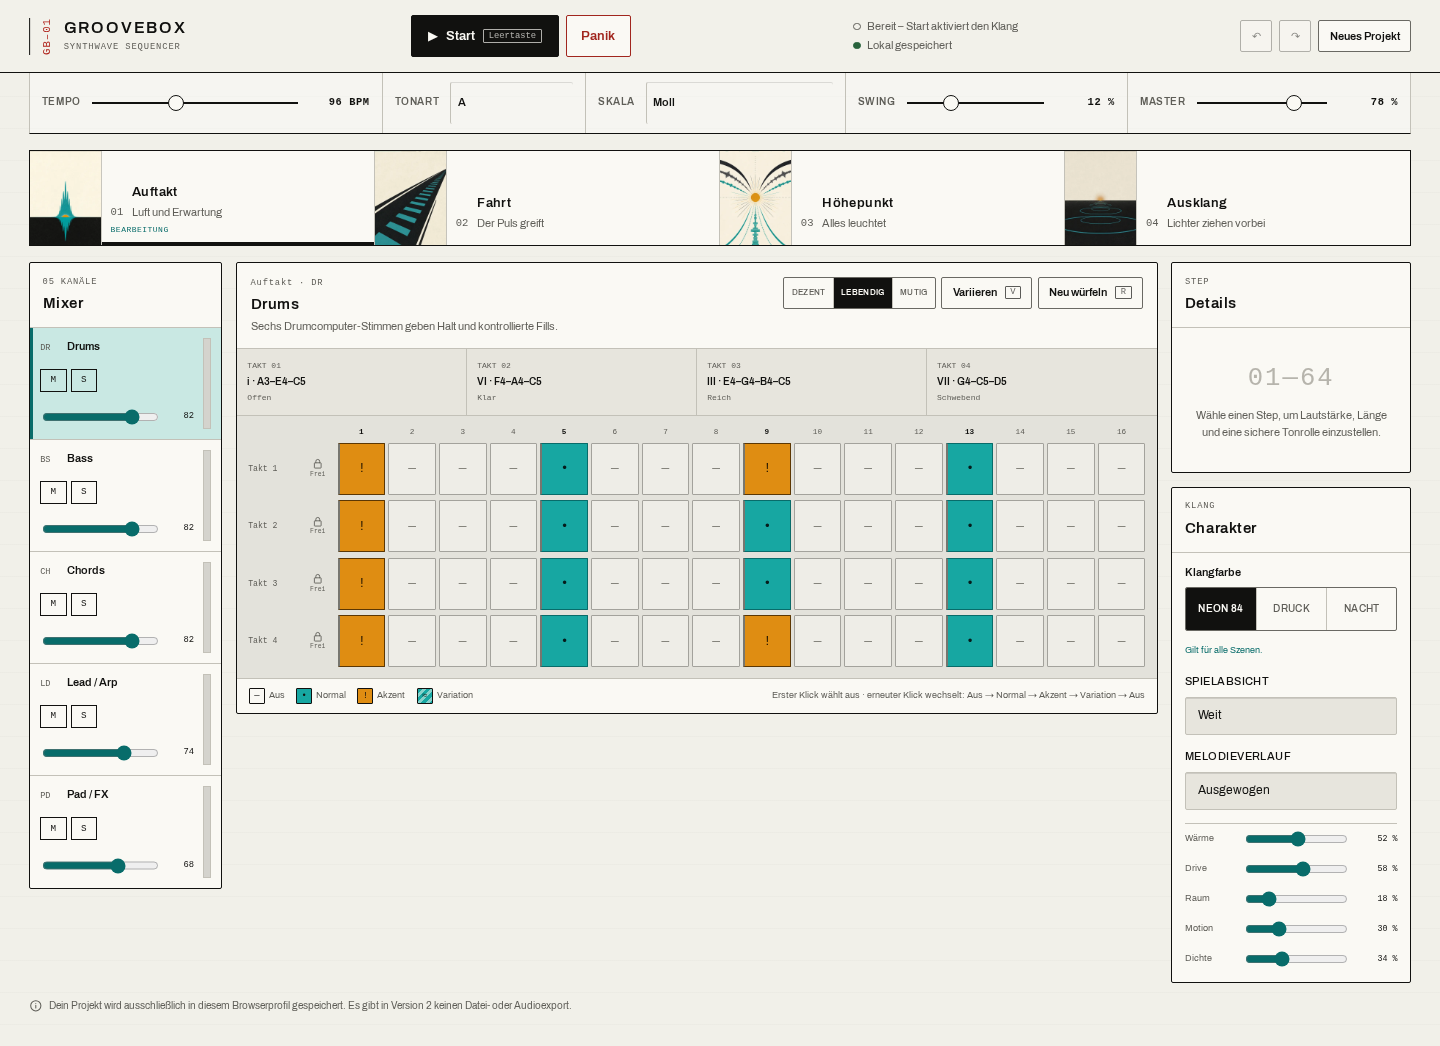
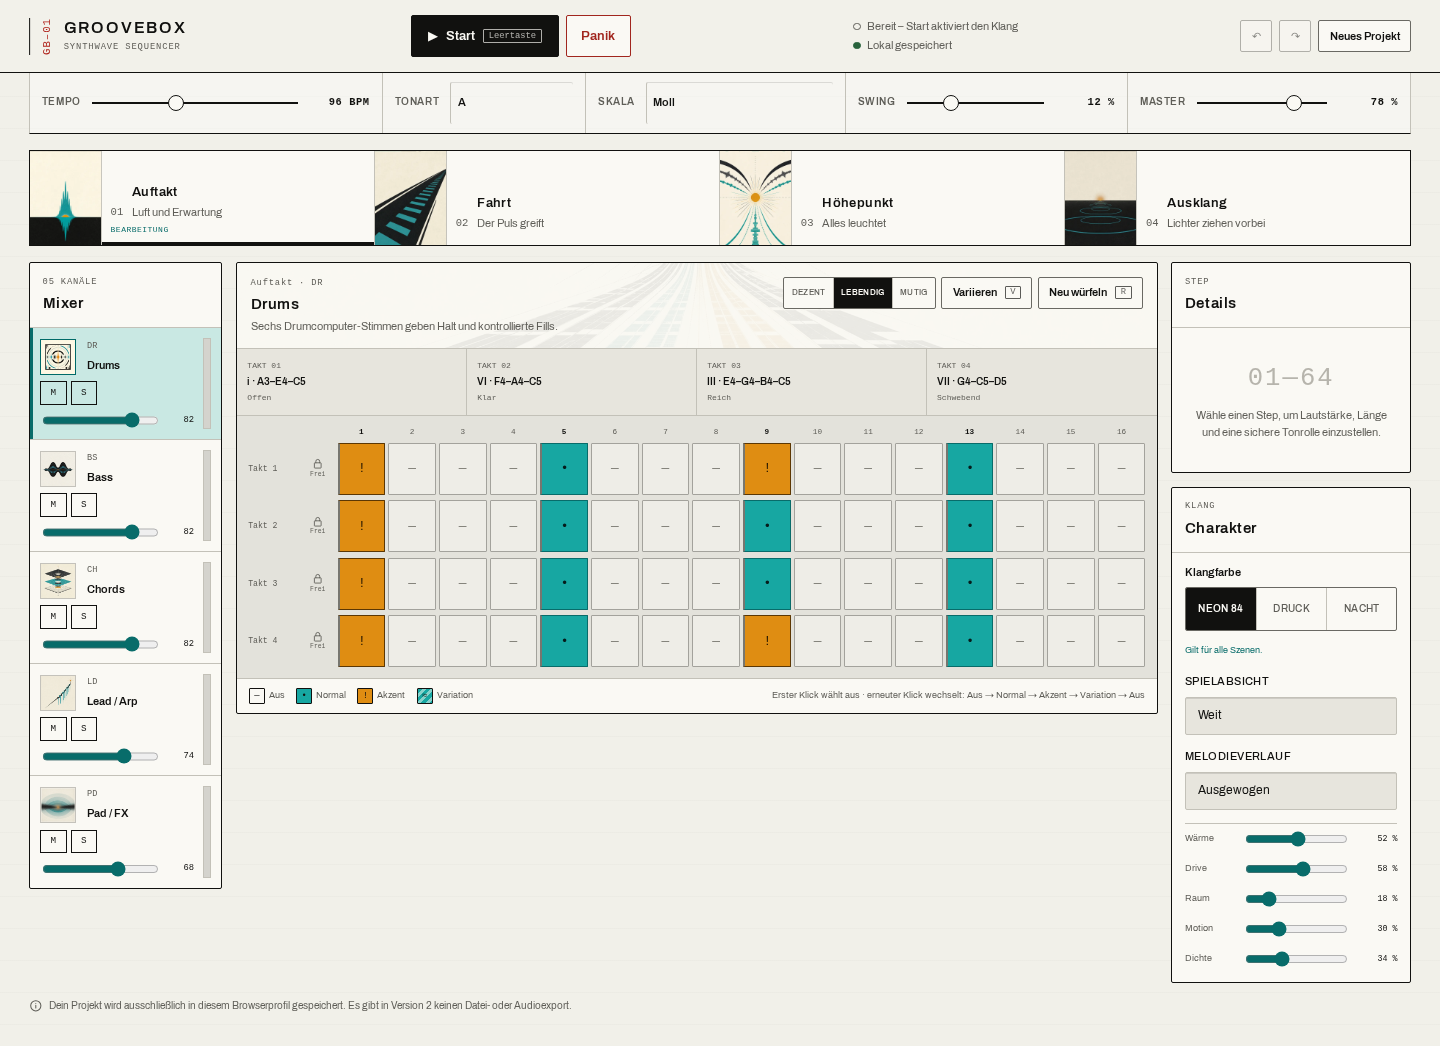
Add instrument and performance artwork

Changed region(s): [[0.0312, 0.3059, 0.125, 0.8566]]

diff --git a/src/styles.css b/src/styles.css
@@ -341,8 +341,10 @@ kbd {
 
 .gb-channel__select {
   display: grid;
-  grid-template-columns: 1.7rem 1fr;
-  align-items: baseline;
+  grid-template-columns: 2.45rem minmax(0, 1fr);
+  grid-template-rows: auto auto;
+  align-items: center;
+  gap: 0.08rem 0.48rem;
   padding: 0;
   border: 0;
   background: transparent;
@@ -350,13 +352,40 @@ kbd {
   text-align: left;
 }
 
-.gb-channel__select span {
+.gb-channel__art {
+  width: 2.25rem;
+  border: 1px solid var(--gb-rule);
+  aspect-ratio: 1;
+  background-image: var(--track-art);
+  background-position: center;
+  background-size: cover;
+  filter: saturate(0.78) contrast(1.02);
+  grid-column: 1;
+  grid-row: 1 / 3;
+  transition: filter 100ms ease;
+}
+
+.gb-channel.is-selected .gb-channel__art, .gb-channel__select:hover .gb-channel__art {
+  border-color: var(--gb-cyan-dark);
+  filter: saturate(1) contrast(1.08);
+}
+
+.gb-channel__code {
   color: var(--gb-muted);
   font-family: var(--bu-font-mono);
   font-size: 0.54rem;
+  grid-column: 2;
+  grid-row: 1;
 }
 
-.gb-channel__select strong { overflow: hidden; font-size: 0.7rem; text-overflow: ellipsis; white-space: nowrap; }
+.gb-channel__select strong {
+  overflow: hidden;
+  font-size: 0.7rem;
+  grid-column: 2;
+  grid-row: 2;
+  text-overflow: ellipsis;
+  white-space: nowrap;
+}
 
 .gb-channel__meter {
   position: relative;
@@ -407,14 +436,31 @@ kbd {
 .gb-sequencer { min-width: 0; }
 
 .gb-section-heading {
+  position: relative;
   display: flex;
   min-height: 5.2rem;
+  overflow: hidden;
   align-items: flex-start;
   justify-content: space-between;
   gap: 1rem;
   padding: 0.85rem;
   border-bottom: 1px solid var(--gb-rule);
 }
+
+.gb-section-heading::before {
+  position: absolute;
+  z-index: 0;
+  inset: 0;
+  background-image: var(--performance-art);
+  background-position: center 42%;
+  background-size: cover;
+  content: "";
+  filter: saturate(0.65);
+  opacity: 0.075;
+  pointer-events: none;
+}
+
+.gb-section-heading > * { position: relative; z-index: 1; }
 
 .gb-section-heading p:not(.gb-eyebrow) { margin: 0.22rem 0 0; color: var(--gb-muted); font-size: 0.67rem; }
 
@@ -736,5 +782,5 @@ kbd {
 
 @media (prefers-reduced-motion: reduce) {
   .gb-scene.is-queued::before { animation: none; }
-  .gb-step, .gb-channel__meter i, .gb-scene__art { transition: none; }
+  .gb-step, .gb-channel__meter i, .gb-scene__art, .gb-channel__art { transition: none; }
 }

diff --git a/src/ui/app.ts b/src/ui/app.ts
@@ -39,6 +39,10 @@ const ICON_SPRITE = `${import.meta.env.BASE_URL}vendor/braun-ui/icons.svg`;
 const SCENE_ART = ["auftakt", "fahrt", "hoehepunkt", "ausklang"].map(
   (name) => `${import.meta.env.BASE_URL}assets/scenes/${name}.webp`,
 );
+const TRACK_ART = Object.fromEntries(
+  TRACK_KINDS.map((track) => [track, `${import.meta.env.BASE_URL}assets/tracks/${track}.webp`]),
+) as Record<TrackKind, string>;
+const PERFORMANCE_ART = `${import.meta.env.BASE_URL}assets/promo/performance-wide.webp`;
 
 const TRACK_LABELS: Record<TrackKind, { name: string; short: string; description: string }> = {
   drums: { name: "Drums", short: "DR", description: "Sechs Drumcomputer-Stimmen geben Halt und kontrollierte Fills." },
@@ -159,7 +163,7 @@ export class GrooveboxApp {
           ${this.scenes(state)}
           <div class="gb-workspace">
             ${this.mixer(state)}
-            <section class="gb-sequencer bu-card" aria-labelledby="sequence-title">
+            <section class="gb-sequencer bu-card" aria-labelledby="sequence-title" style="--performance-art:url(${PERFORMANCE_ART})">
               <header class="gb-section-heading">
                 <div>
                   <p class="gb-eyebrow">${escapeHtml(scene.name)} · ${TRACK_LABELS[state.ui.selectedTrack].short}</p>
@@ -281,7 +285,8 @@ export class GrooveboxApp {
           const meter = mix.muted ? 0 : Math.max(0, Math.min(1, state.transport.trackPeaks[track]));
           return `<article class="gb-channel ${selected ? "is-selected" : ""}">
             <button class="gb-channel__select" type="button" data-action="select-track" data-track="${track}" data-focus-key="track-${track}" aria-pressed="${selected}" title="Spur ${index + 1} auswählen (Taste ${index + 1})">
-              <span>${TRACK_LABELS[track].short}</span><strong>${TRACK_LABELS[track].name}</strong>
+              <span class="gb-channel__art" aria-hidden="true" style="--track-art:url(${TRACK_ART[track]})"></span>
+              <span class="gb-channel__code">${TRACK_LABELS[track].short}</span><strong>${TRACK_LABELS[track].name}</strong>
             </button>
             <div class="gb-channel__meter" data-meter-track="${track}" data-track-peak="${meter}" role="meter" aria-label="Pegel ${TRACK_LABELS[track].name}" aria-valuemin="0" aria-valuemax="100" aria-valuenow="${Math.round(meter * 100)}"><i style="--level:${meter}"></i></div>
             <div class="gb-channel__buttons">

diff --git a/e2e/groovebox.spec.ts b/e2e/groovebox.spec.ts
@@ -25,9 +25,14 @@ test("zeigt das vollständige Desktop-Instrument ohne Laufzeitfehler", async ({ 
   await expect(page.locator(".gb-scene")).toHaveCount(4);
   await expect(page.locator(".gb-scene__art")).toHaveCount(4);
   await expect(page.locator(".gb-channel")).toHaveCount(5);
+  await expect(page.locator(".gb-channel__art")).toHaveCount(5);
   const sceneArt = await page.locator(".gb-scene__art").evaluateAll((elements) => elements.map((element) => getComputedStyle(element).backgroundImage));
   expect(sceneArt).toHaveLength(4);
   expect(sceneArt.every((image) => image.includes("/assets/scenes/") && image.endsWith('.webp\")'))).toBe(true);
+  const trackArt = await page.locator(".gb-channel__art").evaluateAll((elements) => elements.map((element) => getComputedStyle(element).backgroundImage));
+  expect(trackArt).toHaveLength(5);
+  expect(trackArt.every((image) => image.includes("/assets/tracks/") && image.endsWith('.webp\")'))).toBe(true);
+  await expect.poll(() => page.locator(".gb-section-heading").evaluate((element) => getComputedStyle(element, "::before").backgroundImage)).toContain("/assets/promo/performance-wide.webp");
   await expect(page.locator('meta[property="og:image"]')).toHaveAttribute("content", "https://theanonymous.github.io/Groovebox/assets/social/groovebox-preview.png");
   expect(errors).toEqual([]);
   expect(externalRequests).toEqual([]);

diff --git a/e2e/visual.spec.ts b/e2e/visual.spec.ts
@@ -5,8 +5,10 @@ test.beforeEach(async ({ page, browserName }) => {
   await page.goto("./");
   await page.evaluate(() => localStorage.clear());
   await page.evaluate(() => document.fonts.ready);
-  await page.locator(".gb-scene__art").evaluateAll(async (elements) => {
+  await page.locator(".gb-scene__art, .gb-channel__art").evaluateAll(async (elements) => {
     const sources = elements.map((element) => getComputedStyle(element).backgroundImage.slice(5, -2));
+    const performance = document.querySelector(".gb-section-heading");
+    if (performance) sources.push(getComputedStyle(performance, "::before").backgroundImage.slice(5, -2));
     await Promise.all(sources.map((source) => new Promise<void>((resolve, reject) => {
       const image = new Image();
       image.addEventListener("load", () => resolve(), { once: true });

diff --git a/README.md b/README.md
@@ -7,7 +7,12 @@ Snare, Clap, Closed/Open Hat und Tom werden lokal mit Tone.js synthetisiert.
 
 **Live:** https://theanonymous.github.io/Groovebox/
 
-![Groovebox · Synthwave Sequencer](public/assets/social/groovebox-preview.png)
+![Groovebox · Synthwave Sequencer](public/assets/promo/groovebox-banner-v2.png)
+
+Weitere Motive stehen als [quadratisches Artwork](public/assets/promo/groovebox-square-v2.png),
+[Hochformat](public/assets/promo/groovebox-portrait-v2.png) und
+[Social-Preview](public/assets/social/groovebox-preview.png) bereit. Die Szenen- und
+Instrumentgrafiken werden direkt in der Anwendung verwendet.
 
 ## Entwicklung
 